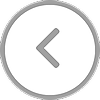
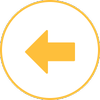
MyFood page has now dark mode ok

Changed region(s): [[0.0, 0.0, 1.0, 1.0], [0.24, 0.27, 0.75, 0.75]]

diff --git a/App/IntelligentHabitacion.App/View/Modal/Calendar.xaml b/App/IntelligentHabitacion.App/View/Modal/Calendar.xaml
@@ -4,19 +4,19 @@
     xmlns:x="http://schemas.microsoft.com/winfx/2009/xaml"
     xmlns:resourceText="clr-namespace:IntelligentHabitacion.App"
     xmlns:pages="clr-namespace:Rg.Plugins.Popup.Pages;assembly=Rg.Plugins.Popup"
-    BackgroundColor="Transparent"
+    BackgroundColor="{AppThemeBinding Light=White, Dark={StaticResource DarkModePrimaryColor}}"
     x:Class="IntelligentHabitacion.App.View.Modal.Calendar">
-    <Frame HasShadow="True" Padding="0" VerticalOptions="Center" HorizontalOptions="FillAndExpand" Margin="20,0,20,0">
+    <Frame HasShadow="True" Padding="0" VerticalOptions="Center" BackgroundColor="{AppThemeBinding Light=White, Dark={StaticResource DarkModePrimaryColor}}" HorizontalOptions="FillAndExpand" Margin="20,0,20,0">
         <StackLayout Margin="20,20,20,30">
             <StackLayout Orientation="Horizontal" Spacing="0">
-                <ImageButton x:Name="ButtonPreviousYear" Source="IconSquareDirection" HeightRequest="25" WidthRequest="25" Clicked="Button_PreviousYear"></ImageButton>
+                <ImageButton x:Name="ButtonPreviousYear" Source="{AppThemeBinding Light=IconSquareDirection, Dark=IconSquareDirection_darkmode}" HeightRequest="25" WidthRequest="25" Clicked="Button_PreviousYear"></ImageButton>
                 <Label WidthRequest="60" HorizontalTextAlignment="Center" VerticalTextAlignment="Center" Grid.Row="0" Grid.Column="1" x:Name="LabelYear" Style="{x:StaticResource LabelBold}" FontSize="18"></Label>
-                <ImageButton x:Name="ButtonNextYear" Rotation="180" BorderWidth="1" Source="IconSquareDirection" HeightRequest="25" WidthRequest="25" Clicked="Button_NextYear"></ImageButton>
+                <ImageButton x:Name="ButtonNextYear" Rotation="180" BorderWidth="1" Source="{AppThemeBinding Light=IconSquareDirection, Dark=IconSquareDirection_darkmode}" HeightRequest="25" WidthRequest="25" Clicked="Button_NextYear"></ImageButton>
             </StackLayout>
             <StackLayout Margin="0,20,0,0" HorizontalOptions="FillAndExpand" Orientation="Horizontal">
-                <ImageButton x:Name="ButtonPreviousMonth" Source="IconRoundDirection" HeightRequest="25" WidthRequest="25" Clicked="Button_PreviousMonth"></ImageButton>
+                <ImageButton x:Name="ButtonPreviousMonth" Source="{AppThemeBinding Light=IconRoundDirection, Dark=IconRoundDirection_darkmode}" HeightRequest="25" WidthRequest="25" Clicked="Button_PreviousMonth"></ImageButton>
                 <Label x:Name="LabelMonth" FontSize="18" Style="{x:StaticResource LabelMedium}" HorizontalOptions="CenterAndExpand"></Label>
-                <ImageButton x:Name="ButtonNextMonth" Rotation="180" Source="IconRoundDirection" HeightRequest="25" WidthRequest="25" Clicked="Button_NextMonth" Margin="0,0,1,0"></ImageButton>
+                <ImageButton x:Name="ButtonNextMonth" Rotation="180" Source="{AppThemeBinding Light=IconRoundDirection, Dark=IconRoundDirection_darkmode}" HeightRequest="25" WidthRequest="25" Clicked="Button_NextMonth" Margin="0,0,1,0"></ImageButton>
             </StackLayout>
 
             <Grid Margin="0,20,0,0" ColumnSpacing="1" x:Name="DaysContent" RowDefinitions="30,30,30,30,30,30,30"
@@ -32,8 +32,8 @@
             </Grid>
 
             <StackLayout Orientation="Horizontal" HorizontalOptions="EndAndExpand">
-                <Button Padding="0" HeightRequest="30" Text="{x:Static resourceText:ResourceText.TITLE_CANCEL}" TextColor="{x:StaticResource RedDefault}" BackgroundColor="White" Clicked="Button_Cancel" FontSize="16"></Button>
-                <Button Padding="0" HeightRequest="30" Text="Ok" TextColor="{x:StaticResource GreenDefault}" BackgroundColor="White" FontSize="16" Clicked="Button_Ok"></Button>
+                <Button Padding="0" HeightRequest="30" Text="{x:Static resourceText:ResourceText.TITLE_CANCEL}" TextColor="{x:StaticResource RedDefault}" BackgroundColor="Transparent" Clicked="Button_Cancel" FontSize="16"></Button>
+                <Button Padding="0" HeightRequest="30" Text="Ok" TextColor="{x:StaticResource GreenDefault}" BackgroundColor="Transparent" FontSize="16" Clicked="Button_Ok"></Button>
             </StackLayout>
         </StackLayout>
     </Frame>

diff --git a/App/IntelligentHabitacion.App/Template/Informations/MyFoodsComponent.xaml b/App/IntelligentHabitacion.App/Template/Informations/MyFoodsComponent.xaml
@@ -35,8 +35,8 @@
                         </Label>
                     </StackLayout>
                     <Grid HorizontalOptions="End" ColumnSpacing="15" VerticalOptions="CenterAndExpand" RowDefinitions="20" ColumnDefinitions="30,30">
-                        <Button Grid.Row="0" Grid.Column="0" Text="-1" BackgroundColor="White" BorderWidth="2" BorderColor="{x:StaticResource RedDefault}" TextColor="{x:StaticResource RedDefault}" CornerRadius="7" FontSize="12" Padding="0" Clicked="Button_SubtractOne"></Button>
-                        <Button Grid.Row="0" Grid.Column="1" Text="+1" BackgroundColor="White" BorderWidth="2" BorderColor="{x:StaticResource GreenDefault}" TextColor="{x:StaticResource GreenDefault}" CornerRadius="7" FontSize="12" Padding="0" Clicked="Button_AddOne"></Button>
+                        <Button Grid.Row="0" Grid.Column="0" Text="-1" BackgroundColor="Transparent" BorderWidth="2" BorderColor="{x:StaticResource RedDefault}" TextColor="{x:StaticResource RedDefault}" CornerRadius="7" FontSize="12" Padding="0" Clicked="Button_SubtractOne"></Button>
+                        <Button Grid.Row="0" Grid.Column="1" Text="+1" BackgroundColor="Transparent" BorderWidth="2" BorderColor="{x:StaticResource GreenDefault}" TextColor="{x:StaticResource GreenDefault}" CornerRadius="7" FontSize="12" Padding="0" Clicked="Button_AddOne"></Button>
                     </Grid>
                 </StackLayout>
                 <BoxView BackgroundColor="{x:StaticResource GrayDefault}" HeightRequest="0.2" Opacity="0.5" Margin="0,10,0,0"></BoxView>

diff --git a/App/IntelligentHabitacion.App/App.xaml b/App/IntelligentHabitacion.App/App.xaml
@@ -106,7 +106,7 @@
                 <Setter Property="BackgroundColor" Value="Transparent"></Setter>
                 <Setter Property="CornerRadius" Value="7"></Setter>
                 <Setter Property="FontSize" Value="16"></Setter>
-                <Setter Property="TextColor" Value="Black"></Setter>
+                <Setter Property="TextColor" Value="{StaticResource RedDefault}"></Setter>
                 <Setter Property="BorderWidth" Value="3"></Setter>
                 <Setter Property="BorderColor" Value="{x:StaticResource RedDefault}"></Setter>
             </Style>
@@ -136,8 +136,8 @@
 
             <Style TargetType="InputKit:RadioButton" ApplyToDerivedTypes="True">
                 <Setter Property="TextFontSize" Value="10"></Setter>
-                <Setter Property="TextColor" Value="Black"></Setter>
-                <Setter Property="CircleColor" Value="Black"></Setter>
+                <Setter Property="TextColor" Value="{AppThemeBinding Light=Black, Dark=White}"></Setter>
+                <Setter Property="CircleColor" Value="{AppThemeBinding Light=Black, Dark=White}"></Setter>
                 <Setter Property="FontFamily" Value="{DynamicResource FontFamilyRalewayLight}"></Setter>
                 <Setter Property="Color" Value="{x:StaticResource YellowDefault}"></Setter>
             </Style>

diff --git a/App/IntelligentHabitacion.App/View/MyFoods/MyFoodsPage.xaml b/App/IntelligentHabitacion.App/View/MyFoods/MyFoodsPage.xaml
@@ -49,7 +49,7 @@
                         <Grid VerticalOptions="FillAndExpand">
                             <StackLayout>
                                 <StackLayout VerticalOptions="CenterAndExpand" HorizontalOptions="CenterAndExpand" Spacing="-3">
-                                    <Image Source="IlustrationMyFood"></Image>
+                                    <Image Source="IlustrationMyFood" HeightRequest="300"></Image>
                                     <customControl:LabelJustifyText Margin="0,40,0,0" Text="{x:Static resourceText:ResourceText.PHRASE_YOU_HAVENT_ADDED_FOODS}" Style="{x:StaticResource LabelLight}" FontSize="18"></customControl:LabelJustifyText>
                                 </StackLayout>
 

diff --git a/App/IntelligentHabitacion.App/Template/Date/ColumnDayTemplate.xaml.cs b/App/IntelligentHabitacion.App/Template/Date/ColumnDayTemplate.xaml.cs
@@ -36,7 +36,7 @@ namespace IntelligentHabitacion.App.Template.Date
         public void DeselectDay()
         {
             SelectComponent.IsVisible = false;
-            LabelDay.TextColor = Color.Black;
+            LabelDay.TextColor = Application.Current.RequestedTheme == OSAppTheme.Light ? Color.Black : Color.White;
         }
 
         private void DaySelected()
